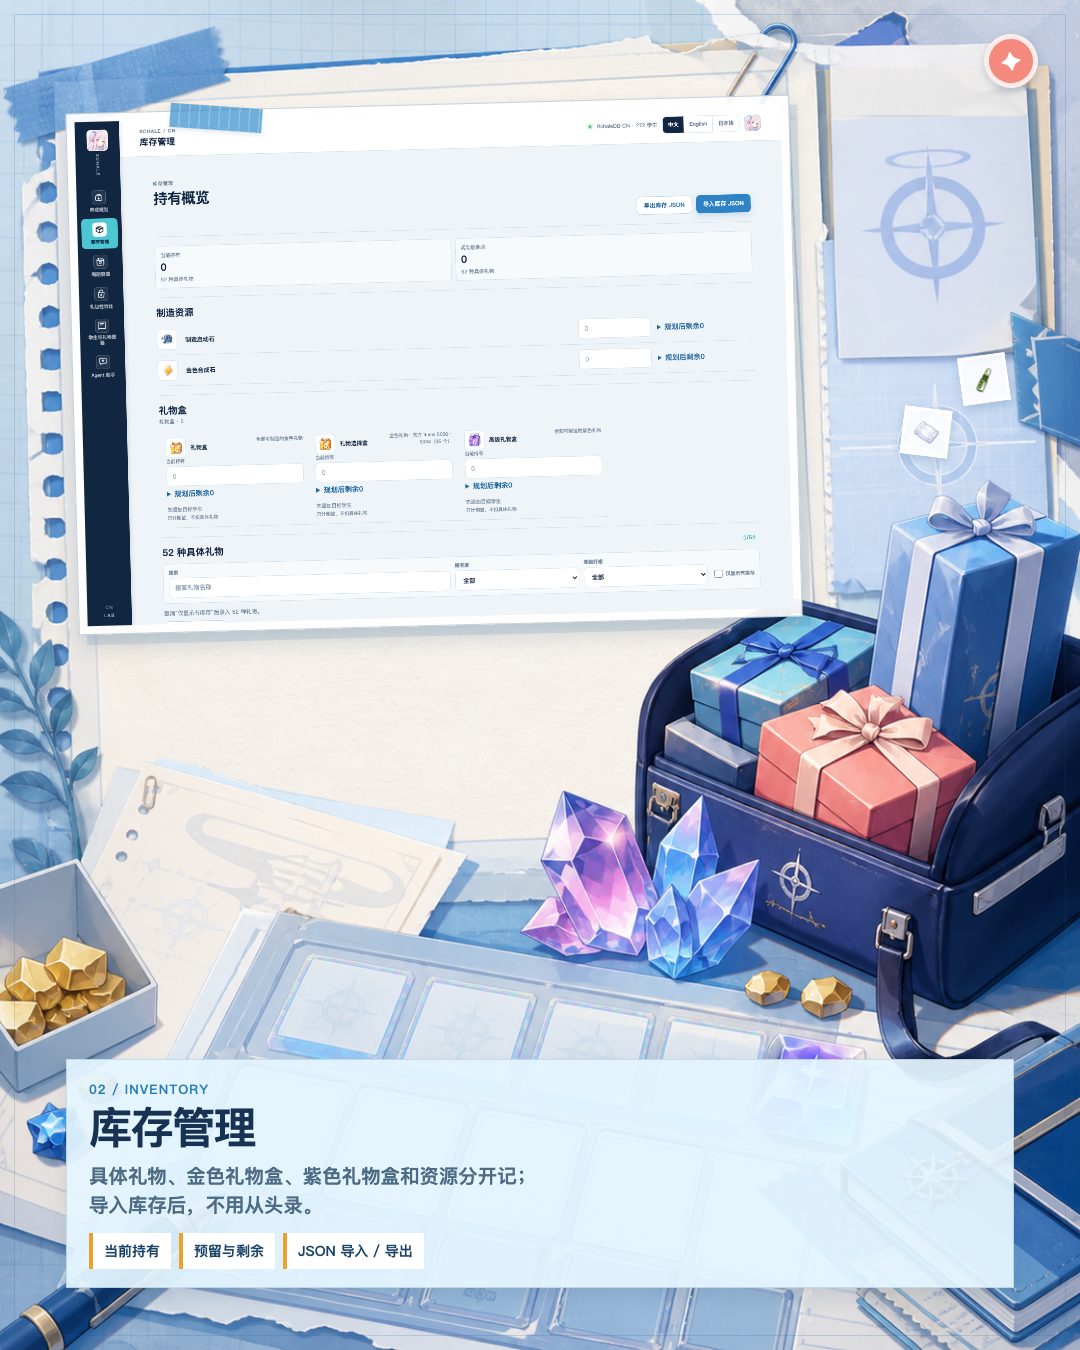
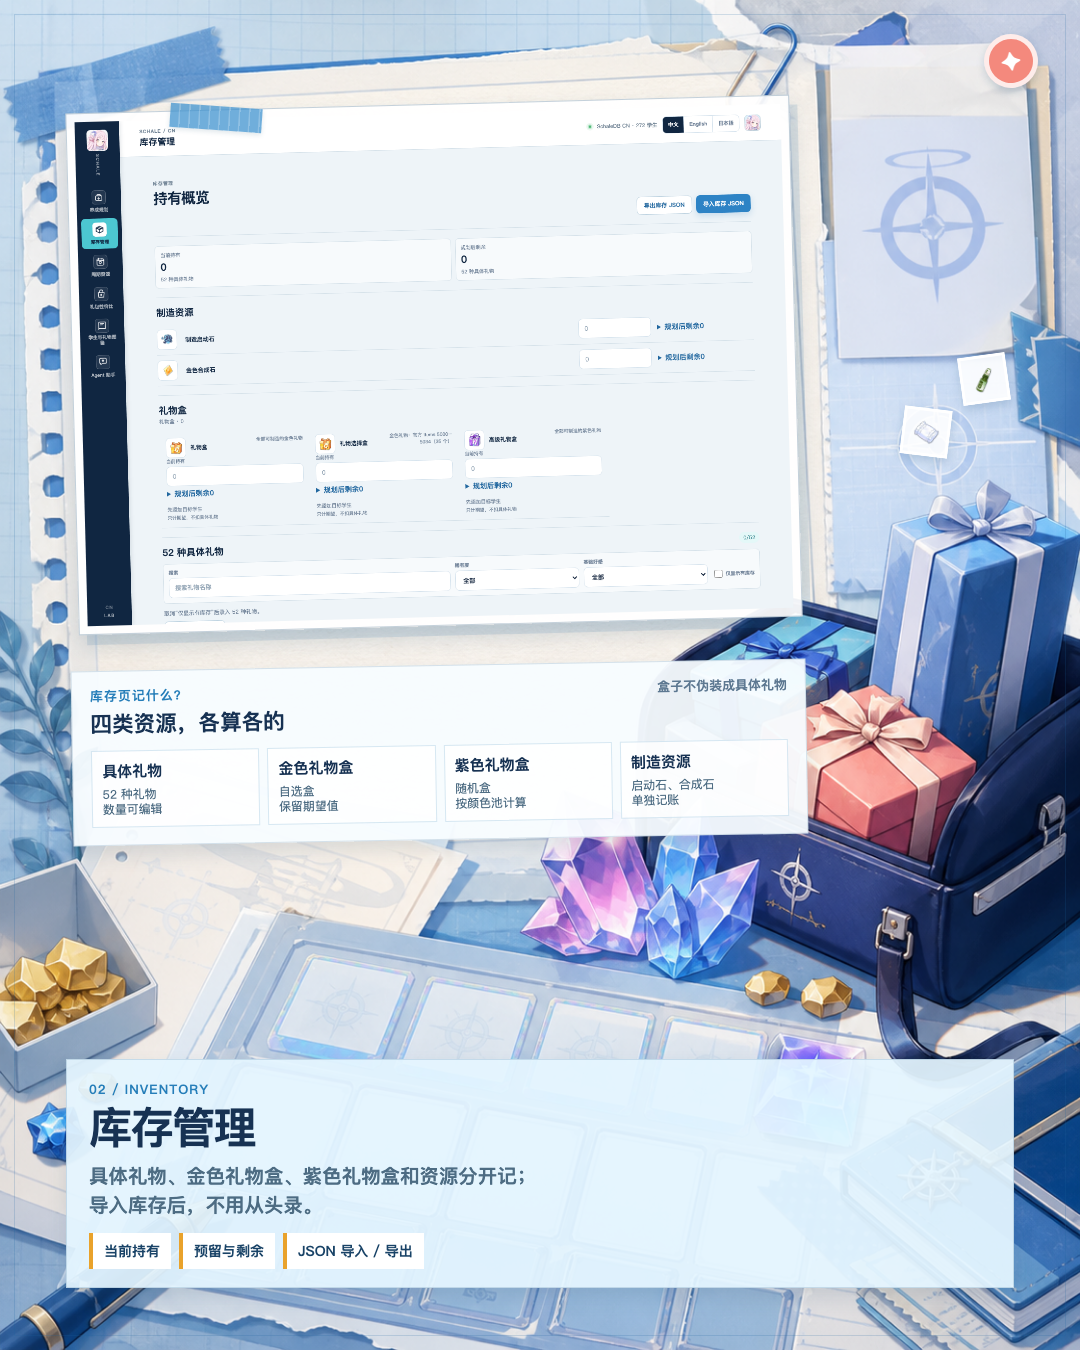
docs: turn scrapbook into feature introduction

Changed region(s): [[0.0611, 0.4667, 0.7639, 0.6533]]

diff --git a/docs/promotion/scrapbook/preview.html b/docs/promotion/scrapbook/preview.html
@@ -173,6 +173,28 @@
     .cover .note .small { margin-top: 4px; }
     .cover .tape { top: 84px; left: 280px; transform: rotate(-5deg); }
     .cover .sticker { top: 50px; right: 48px; }
+    .cover .guide {
+      position: absolute;
+      top: 430px;
+      left: 72px;
+      width: 425px;
+      padding: 17px 20px 18px;
+      transform: rotate(1deg);
+    }
+    .guide-title { margin-top: 5px; font-size: clamp(15px, 2vw, 22px); font-weight: 800; }
+    .guide-rows { display: grid; gap: 10px; margin-top: 13px; }
+    .guide-row { display: grid; grid-template-columns: 30px 1fr; gap: 10px; align-items: start; }
+    .guide-row b {
+      display: grid;
+      place-items: center;
+      width: 26px;
+      height: 26px;
+      color: #fff;
+      background: #247fbe;
+      font-size: 12px;
+    }
+    .guide-row strong { display: block; font-size: clamp(12px, 1.5vw, 16px); }
+    .guide-row span { display: block; margin-top: 2px; color: var(--muted); font-size: clamp(10px, 1.2vw, 13px); }
 
     .feature .feature-copy {
       position: absolute;
@@ -225,6 +247,71 @@
     .planner .feature-copy { background: rgba(255, 253, 248, .92); }
     .inventory .feature-copy { background: rgba(228, 245, 255, .93); }
     .agent .feature-copy { background: rgba(255, 253, 248, .94); }
+
+    .callout {
+      padding: 15px 18px 17px;
+      border: 1px solid rgba(29, 86, 132, .16);
+    }
+    .planner-callout {
+      position: absolute;
+      top: 660px;
+      left: 72px;
+      width: 690px;
+      background: rgba(255, 253, 248, .94);
+      transform: rotate(1deg);
+    }
+    .inventory-callout {
+      position: absolute;
+      top: 665px;
+      left: 72px;
+      width: 735px;
+      background: rgba(247, 252, 255, .95);
+      transform: rotate(-1deg);
+    }
+    .callout-head { display: flex; align-items: baseline; justify-content: space-between; gap: 12px; }
+    .callout-title { margin-top: 4px; font-size: clamp(15px, 2vw, 22px); font-weight: 800; }
+    .callout-tag { color: #5d7891; font-size: clamp(10px, 1.2vw, 13px); font-weight: 700; }
+    .step-grid { display: grid; grid-template-columns: repeat(3, 1fr); gap: 8px; margin-top: 12px; }
+    .step {
+      min-height: 72px;
+      padding: 9px 10px;
+      border-top: 3px solid #2b8cc4;
+      background: #e8f7ff;
+    }
+    .step b { display: block; color: #2b8cc4; font-size: 11px; }
+    .step strong { display: block; margin-top: 3px; font-size: clamp(11px, 1.4vw, 15px); }
+    .step span { display: block; margin-top: 3px; color: var(--muted); font-size: clamp(9px, 1.1vw, 12px); }
+    .record-grid { display: grid; grid-template-columns: repeat(4, 1fr); gap: 8px; margin-top: 12px; }
+    .record {
+      min-height: 70px;
+      padding: 9px 10px;
+      border: 1px solid rgba(38, 126, 185, .18);
+      background: rgba(255,255,255,.8);
+    }
+    .record strong { display: block; font-size: clamp(11px, 1.4vw, 15px); }
+    .record span { display: block; margin-top: 5px; color: var(--muted); font-size: clamp(9px, 1.1vw, 12px); line-height: 1.3; }
+    .conversation {
+      position: absolute;
+      top: 665px;
+      left: 82px;
+      width: 650px;
+      padding: 14px 17px 16px;
+      background: rgba(255, 253, 248, .94);
+      border: 1px solid rgba(29, 86, 132, .16);
+      box-shadow: 0 10px 18px rgba(39, 77, 105, .12);
+      transform: rotate(-1deg);
+    }
+    .bubble {
+      width: 78%;
+      margin-top: 8px;
+      padding: 8px 11px;
+      color: #173253;
+      font-size: clamp(10px, 1.25vw, 14px);
+      line-height: 1.35;
+    }
+    .bubble.user { margin-left: auto; background: #dff3ff; border-right: 4px solid #2b8cc4; }
+    .bubble.agent { background: #edf8ff; border-left: 4px solid #6b9ac6; }
+    .bubble.result { background: #fff0cf; border-left: 4px solid #e6a630; }
 
     .metric-row {
       display: flex;
@@ -285,6 +372,15 @@
         <strong>本地运行 · JSON 导入 · 三语界面</strong>
         <p class="small">非官方玩家工具 · 素材来源与使用边界见 README</p>
       </div>
+      <div class="paper guide">
+        <p class="eyebrow">这是什么？</p>
+        <p class="guide-title">把养成前的算账，变成一张清单</p>
+        <div class="guide-rows">
+          <div class="guide-row"><b>1</b><div><strong>导入自己的库存</strong><span>兼容 arona.icu 库存 JSON，也能手动修改。</span></div></div>
+          <div class="guide-row"><b>2</b><div><strong>选定想培养的学生</strong><span>看喜欢的礼物、好感目标和制造节点。</span></div></div>
+          <div class="guide-row"><b>3</b><div><strong>得到能执行的答案</strong><span>直接看好感缺口和按免费资源估算的天数。</span></div></div>
+        </div>
+      </div>
     </section>
 
     <section class="sheet feature planner" id="planner">
@@ -297,6 +393,14 @@
       <img class="portrait" src="student-10122.webp" alt="学生头像">
       <img class="gift g1" src="gift-5000.webp" alt="礼物图标">
       <img class="gift g2" src="gift-5004.webp" alt="礼物图标">
+      <div class="paper planner-callout callout">
+        <div class="callout-head"><div><p class="eyebrow">怎么开始</p><p class="callout-title">三步找到培养路线</p></div><span class="callout-tag">先看结果，再看明细</span></div>
+        <div class="step-grid">
+          <div class="step"><b>01</b><strong>选学生</strong><span>选择目标角色</span></div>
+          <div class="step"><b>02</b><strong>设目标</strong><span>输入目标好感</span></div>
+          <div class="step"><b>03</b><strong>看缺口</strong><span>按礼物和资源分配</span></div>
+        </div>
+      </div>
       <div class="paper feature-copy">
         <p class="eyebrow">01 / PLAN</p>
         <h2>好感规划</h2>
@@ -318,6 +422,15 @@
       </div>
       <img class="gift g1" src="gift-5013.webp" alt="礼物图标">
       <img class="gift g2" src="gift-5100.webp" alt="礼物图标">
+      <div class="paper inventory-callout callout">
+        <div class="callout-head"><div><p class="eyebrow">库存页记什么？</p><p class="callout-title">四类资源，各算各的</p></div><span class="callout-tag">盒子不伪装成具体礼物</span></div>
+        <div class="record-grid">
+          <div class="record"><strong>具体礼物</strong><span>52 种礼物<br>数量可编辑</span></div>
+          <div class="record"><strong>金色礼物盒</strong><span>自选盒<br>保留期望值</span></div>
+          <div class="record"><strong>紫色礼物盒</strong><span>随机盒<br>按颜色池计算</span></div>
+          <div class="record"><strong>制造资源</strong><span>启动石、合成石<br>单独记账</span></div>
+        </div>
+      </div>
       <div class="paper feature-copy">
         <p class="eyebrow">02 / INVENTORY</p>
         <h2>库存管理</h2>
@@ -336,6 +449,12 @@
       <span class="sticker gold">?</span>
       <div class="paper screen">
         <img src="screens/agent.png" alt="Agent 助手页面截图">
+      </div>
+      <div class="conversation">
+        <p class="eyebrow">你可以直接这样问</p>
+        <div class="bubble user">我想把这位学生养到目标好感，还差多少？</div>
+        <div class="bubble agent">我会读取目标、礼物库存和免费资源，先给出计算结果。</div>
+        <div class="bubble result">建议只会先展示；是否应用规划，由你确认。</div>
       </div>
       <div class="paper feature-copy">
         <p class="eyebrow">03 / ASSISTANT</p>
